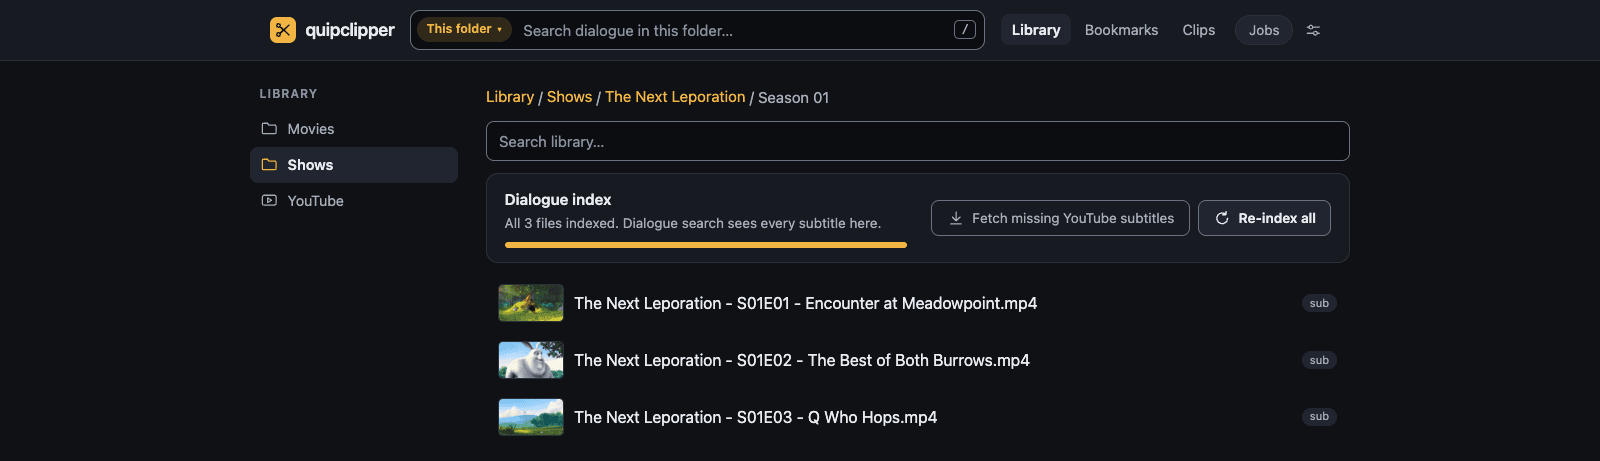
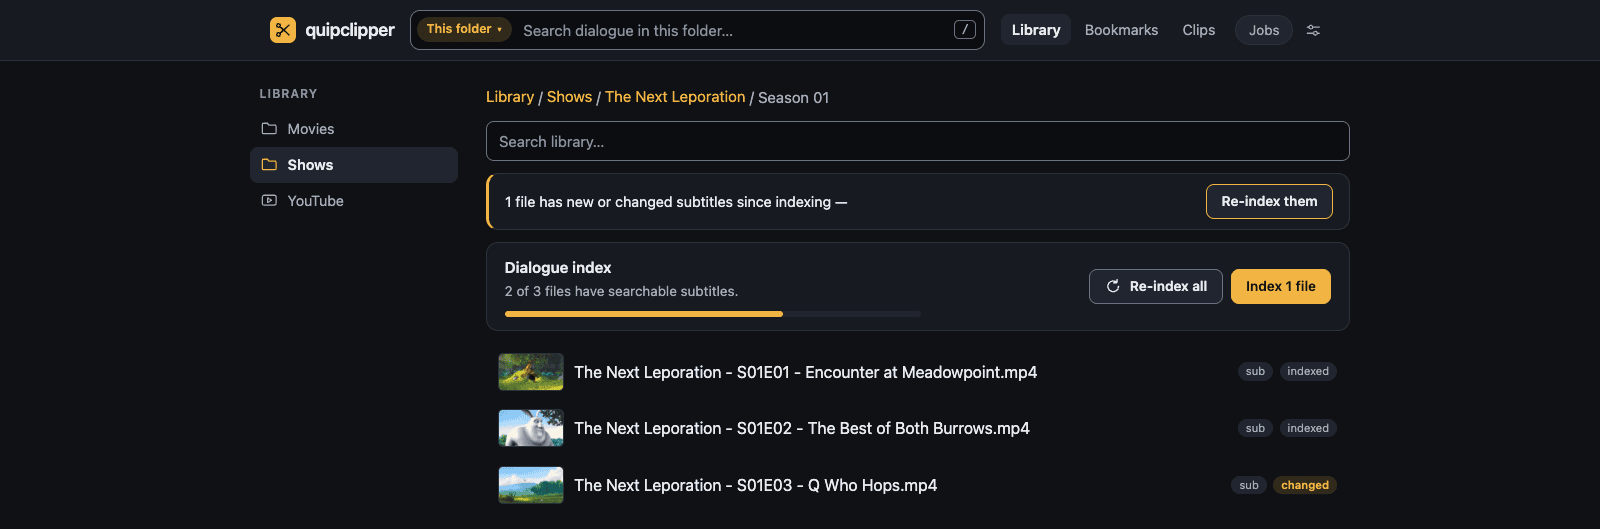
docs: screenshots and README for 0.3.1: pairing, Connected apps, the library index (M23)
Retook the seven README screenshots from the Large Locutus Leporid fixture on a
local dev server with transcription off (D-040: none of it shows), and added two:

- workspace-dark/-light: the Script tab's ? help, the waveform's label strip
  and hint line as they are now.
- library: indexed chips, and one episode marked changed with the Re-index
  them banner (shoot.py bumps its subtitle date for the shot, then restores it).
- now-playing: the library home down to the Dialogue index card's Index the
  whole library.
- search-results: the not-indexed count and the library index card above the
  hits; cropped to 1600x740 (the footer moved up).
- send-to-leadstinger, phone: the cart icon.
- new pairing.png (the approval banner) and connected-apps.png (Settings >
  Connected apps), from a request shoot.py makes through the API and denies
  after; the address shown is the fixture server's 127.0.0.1.

README: a features bullet for the dialogue index and change detection, exact
words ranking first, pairing in the LeadStinger bullet, captions for the new
shots, and 0.3.1 as the example image tag (DEPLOY.md too). MANUAL: drop the
one sentence about machine transcript labels. The social preview is unchanged.

diff --git a/docs/screenshots/fixture/shoot.py b/docs/screenshots/fixture/shoot.py
@@ -7,7 +7,7 @@ Jellyfin pointed at fake_jellyfin.py (see README.md here). Needs Playwright and
 Google Chrome (Playwright's own Chromium can't play H.264). Compress with
 pngquant afterwards.
 """
-import asyncio, sys
+import asyncio, json, sys, urllib.request
 from playwright.async_api import async_playwright
 
 import os
@@ -44,6 +44,15 @@ async def open_movie_from_now_playing(page):
     await settle(page, 1500)
 
 
+def api(method, path, body=None):
+    """Call the fixture server's API as the app (pairing) or a person would."""
+    req = urllib.request.Request(BASE + "api/" + path, method=method,
+                                 data=json.dumps(body).encode() if body is not None else None,
+                                 headers={"X-Quipclipper": "1", "Content-Type": "application/json"})
+    with urllib.request.urlopen(req) as r:
+        return json.load(r)
+
+
 async def bottom(page, selector, pad=16):
     """The page y just below the last element matching `selector`, plus `pad`."""
     box = await page.locator(selector).last.bounding_box()
@@ -67,16 +76,27 @@ async def main():
 
         # Index the season first, so the card says so and search is quick.
         page = await home(dark)
+        # Down to the home's Dialogue index card and its Index the whole library button.
+        await page.wait_for_selector("#lib-index-btn:not([hidden])")
         await shot(page, "now-playing", clip={"x": 0, "y": 0, "width": 1600,
-                                            "height": await bottom(page, "#nowplaying-card", 10)})
+                                            "height": await bottom(page, "#index-card", 10)})
         await page.evaluate("p => browse(p)", SHOWS + "/The Next Leporation/Season 01")
         await settle(page)
         if await page.locator("#index-btn").is_visible():
             await page.click("#index-btn")
             await page.wait_for_function("!document.getElementById('index-btn') || document.getElementById('index-btn').hidden || /indexed/i.test(document.getElementById('index-card-text').textContent)", timeout=60000)
             await settle(page, 1500)
+        # One episode's subtitles "changed" since indexing (a newer mtime), so the folder
+        # shows the changed chip and the Re-index them banner; the old mtime goes back after.
+        srt = SHOWS + "/The Next Leporation/Season 01/The Next Leporation - S01E03 - Q Who Hops.srt"
+        st = os.stat(srt)
+        os.utime(srt, (st.st_atime, st.st_mtime + 3600))
+        await page.evaluate("p => browse(p)", SHOWS + "/The Next Leporation/Season 01")
+        await page.wait_for_selector("#changed-banner:not([hidden])", timeout=30000)
+        await settle(page, 1000)
         await shot(page, "library", clip={"x": 0, "y": 0, "width": 1600,
                                         "height": await bottom(page, "#entries li")})
+        os.utime(srt, (st.st_atime, st.st_mtime))
 
         # Dialogue search over the whole library (from a folder, so the Now
         # playing card is out of the way), tick two hits, preview the first.
@@ -144,6 +164,34 @@ async def main():
         await settle(page, 800)
         await shot(page, "phone")
         await phone.close()
+
+        # Pairing: LeadStinger on another computer asks for access (the banner), and
+        # Settings > Connected apps lists one already let in (shot at 2x, cropped). Shot last: the request
+        # is denied afterwards, so it shows on no other page.
+        if not any(c["host"] == "booth-mini" for c in api("GET", "clients")["clients"]):
+            done = api("POST", "pair", {"name": "LeadStinger", "host": "booth-mini"})
+            api("POST", f"pair/{done['id']}/approve")
+        ask = api("POST", "pair", {"name": "LeadStinger", "host": "studio-macbook"})
+        try:
+            dark = await b.new_context(viewport={"width": 1600, "height": 1000}, device_scale_factor=2,
+                                       color_scheme="dark")
+            page = await home(dark)
+            await page.wait_for_selector("#pair-banner:not([hidden])", timeout=30000)
+            await settle(page, 700)
+            ban = await page.locator("#pair-banner").bounding_box()
+            await shot(page, "pairing", clip={"x": ban["x"] - 16, "y": ban["y"] - 16,
+                                            "width": ban["width"] + 32, "height": ban["height"] + 32})
+            # Connected apps, at the foot of the Settings popover, cropped to the popover.
+            await page.click("#settings-btn")
+            await page.wait_for_selector("#apps-list li")
+            await page.evaluate("document.getElementById('apps-setting').scrollIntoView({block: 'end'})")
+            await settle(page, 700)
+            pop = await page.locator("#settings-popover").bounding_box()
+            await shot(page, "connected-apps", clip={"x": pop["x"] - 16, "y": pop["y"] - 16,
+                                                   "width": pop["width"] + 32, "height": pop["height"] + 32})
+            await dark.close()
+        finally:
+            api("POST", f"pair/{ask['id']}/deny")
         await b.close()
 
 asyncio.run(main())

diff --git a/README.md b/README.md
@@ -18,8 +18,14 @@ mkvmerge. quipclipper is a **self-hosted web app** over your own media folders, 
 ## Features
 
 - **Dialogue search** in a video, a folder or your whole library: fuzzy and typo-tolerant,
-  phrases that span several subtitles still match, results grouped by file with the words
-  highlighted and a preview of the lines around each hit.
+  phrases that span several subtitles still match, lines holding your exact words rank
+  first, and results come grouped by file with the words highlighted and a preview of the
+  lines around each hit.
+- **A dialogue index that stays current:** index a folder or the whole library once (in
+  the background, at low priority, picking up where it stopped), and search reads every
+  indexed file in seconds. Each file shows an **indexed** chip; when its subtitles change
+  (Bazarr upgraded them, say), a **changed** chip and a banner offer **Re-index them**, and
+  [Bazarr, Sonarr and Radarr hooks](#bazarr-sonarr-and-radarr) can do it for you.
 - **A workspace for each file:** the player, a dialogue map of where the talking is, and the
   scrolling script. Set the selection by whole lines (Start / End), add padding, and see it
   loop before you cut.
@@ -41,7 +47,8 @@ mkvmerge. quipclipper is a **self-hosted web app** over your own media folders, 
 - **Plays anything:** files the browser can't play are converted on the fly (audio, or the
   video too), and iOS gets an HLS stream.
 - **[Send to LeadStinger](#leadstinger):** hand a line straight to the LeadStinger
-  soundboard as a trimmed tile, or many lines as a set.
+  soundboard as a trimmed tile, or many lines as a set. LeadStinger connects by pairing:
+  you click Allow on a banner, and no token gets copied.
 - **[Jellyfin Now playing](#jellyfin-now-playing):** open whatever a Jellyfin client is
   playing at its playhead, with the line just heard selected.
 - **[Accessible](#accessibility):** hover text and screen-reader names on every control,
@@ -54,12 +61,15 @@ mkvmerge. quipclipper is a **self-hosted web app** over your own media folders, 
 ## Screenshots
 
 **The library:** the media roots on the left, a Dialogue index card that caches
-subtitles so dialogue search is instant, and Jellyfin's stills on the episodes.
+subtitles so dialogue search is instant, and Jellyfin's stills on the episodes. Each file
+says whether it is indexed; here one episode's subtitles changed since, so a banner offers
+to re-index it.
 
-![The library, with the Dialogue index card and episode stills from Jellyfin](docs/screenshots/library.png)
+![A season folder in the library: the Dialogue index card, episode stills from Jellyfin, indexed chips, and one file marked changed with a Re-index them banner](docs/screenshots/library.png)
 
 **Dialogue search** over the whole library: grouped by file, the words highlighted, a
-preview of the lines around a hit, and a batch bar for the ticked lines.
+preview of the lines around a hit, and a batch bar for the ticked lines. The status line
+counts the files not indexed yet, and **Index the whole library** brings them in.
 
 ![Search results across the library, grouped by file, with a preview](docs/screenshots/search-results.png)
 
@@ -69,9 +79,10 @@ mark the selected line's in and out points.
 
 ![The workspace in the light theme, with the waveform strip and its handles under the player](docs/screenshots/workspace-light.png)
 
-**Now playing** from Jellyfin: open what a client is playing, at its playhead.
+**Now playing** from Jellyfin on the library's home: open what a client is playing, at its
+playhead. Below it, the home's Dialogue index card indexes the whole library.
 
-![Now playing from Jellyfin, with each item's poster](docs/screenshots/now-playing.png)
+![The library home: Now playing from Jellyfin with each item's poster, and the Dialogue index card with Index the whole library](docs/screenshots/now-playing.png)
 
 **Send to LeadStinger:** the cart button beside Make clip cuts the selection with its
 Before/After padding and sends it to LeadStinger as a new tile, the padding becoming the
@@ -84,6 +95,14 @@ handles have grips big enough for a finger.
 
 <p align="center"><img src="docs/screenshots/phone.png" width="300" alt="The workspace on a phone: the player, the waveform strip with its handles, and the selection pinned to the bottom"></p>
 
+**Pairing LeadStinger:** when LeadStinger asks to connect, a banner on every page shows
+its name, computer and code; Allow it if LeadStinger shows the same code. Settings ▸
+Connected apps lists the apps let in, each with its own key and a Revoke button.
+
+<img src="docs/screenshots/pairing.png" width="880" alt="The pairing banner: LeadStinger on studio-macbook wants access, with its code and the Allow and Deny buttons">
+
+<p align="center"><img src="docs/screenshots/connected-apps.png" width="420" alt="Settings, with Connected apps listing LeadStinger on booth-mini, a Revoke button and Connect LeadStinger"></p>
+
 ## Install
 
 quipclipper needs `ffmpeg` and `ffprobe`; `mkvmerge` (MKVToolNix) is used when present.
@@ -94,7 +113,7 @@ The Docker images and the Nix packages include them. Releases are listed in
 
 Each release publishes two images, `ghcr.io/weckere/quipclipper-app` (the backend) and
 `ghcr.io/weckere/quipclipper-web` (nginx and the UI), tagged with the version (e.g.
-`0.2.0`), the series (`0.2`) and `latest`. Copy
+`0.3.1`), the series (`0.3`) and `latest`. Copy
 [`docker-compose.example.yml`](docker-compose.example.yml), set your media paths, and:
 
 ```bash

diff --git a/docs/DEPLOY.md b/docs/DEPLOY.md
@@ -20,7 +20,7 @@ The repo ships a ready-to-edit [`docker-compose.example.yml`](../docker-compose.
 it, set your media paths, and `docker compose up -d`.
 
 Every release publishes prebuilt images to the GitHub Container Registry, tagged
-with the version (e.g. `0.2.0`), the minor series (`0.2`) and `latest`, so the simplest
+with the version (e.g. `0.3.1`), the minor series (`0.3`) and `latest`, so the simplest
 deploy just **pulls** them — no local build. Pin a version tag to choose when you
 upgrade, or follow `latest`. A minimal version:
 
@@ -141,7 +141,7 @@ host nginx (a VM test in CI exercises the whole flow).
 
 Add the flake as an input and pull the module into your host. The repository's
 default branch, `main`, is always the latest release; pin a tag
-(e.g. `github:weckere/quipclipper/v0.2.0`) to stay on one, or follow `dev` for work in
+(e.g. `github:weckere/quipclipper/v0.3.1`) to stay on one, or follow `dev` for work in
 progress. A minimal `flake.nix`:
 
 ```nix
@@ -347,7 +347,7 @@ changed in each release, and every release is on the
 
 | You want | Docker image tag | Flake URL |
 |---|---|---|
-| One exact release | `:X.Y.Z` (e.g. `:0.2.0`) | `github:weckere/quipclipper/vX.Y.Z` |
+| One exact release | `:X.Y.Z` (e.g. `:0.3.1`) | `github:weckere/quipclipper/vX.Y.Z` |
 | Fixes within a series | `:X.Y` (e.g. `:0.2`) | (pin a tag and bump it) |
 | The latest release | `:latest` | `github:weckere/quipclipper` (`main`) |
 | Work in progress | (build from `dev`) | `github:weckere/quipclipper/dev` |

diff --git a/docs/screenshots/fixture/README.md b/docs/screenshots/fixture/README.md
@@ -49,6 +49,12 @@ are a few Borg lines for dialogue search to find.
      --output "docs/screenshots/$(basename "$f")" "$f"; done
    ```
 
-   The search shot is cropped to 1600 × 850 (above the footer) (`ffmpeg -vf crop=1600:850:0:0`).
+   The search shot is cropped to 1600 × 740 (above the footer) (`ffmpeg -vf crop=1600:850:0:0`).
+   The library shot bumps one episode's subtitle date for the shot (so it shows the
+   **changed** chip and banner) and puts it back after. The pairing shots (`pairing`,
+   `connected-apps`) ask for access as "LeadStinger on studio-macbook" through the API, with
+   "LeadStinger on booth-mini" already let in, and deny the request afterwards; the address
+   on the banner is the fixture server's own `127.0.0.1`. Transcription stays off (no
+   `QC_TRANSCRIBE`), so none of it shows.
    The workspace shots wait for the waveform's peaks; the phone shot scrolls the waveform
    strip up to just above the pinned selection. Look at every image before committing it.

diff --git a/docs/MANUAL.md b/docs/MANUAL.md
@@ -288,8 +288,7 @@ Opening a file opens its workspace.
   dialogue map's amber band, play, Loop selection and Make clip follow, and the view stays
   where it is. **Shift-click** another label to widen the selection to take it in (a range
   dragged on the waveform grows to cover the line). Only a click selects the line: a drag
-  that starts on a label still drags out a range, and Shift-drag still pans. Machine
-  transcript lines (marked auto) work the same way.
+  that starts on a label still drags out a range, and Shift-drag still pans.
   The selection's **in and out handles** are the Before / After padding: drag one (or
   focus it and use the arrow keys) and the fields follow; a negative value trims into the
   line. **Snap** pulls a dropped handle to the nearest **zero crossing** (on by default,
